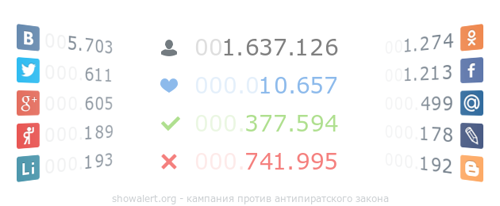
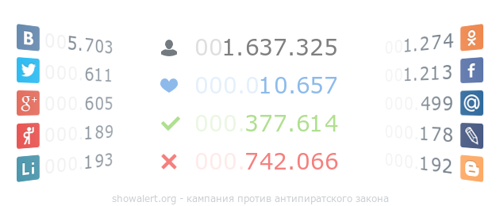
some updates

Changed region(s): [[0.54, 0.7282, 0.69, 0.8447], [0.6, 0.1748, 0.69, 0.2621], [0.57, 0.5534, 0.66, 0.6408]]

diff --git a/votes.js b/votes.js
@@ -1,1 +1,1 @@
-window.lk.votes(26153)
+window.lk.votes(26176)
